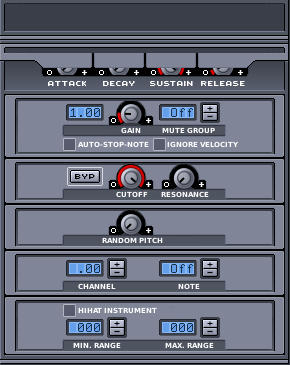
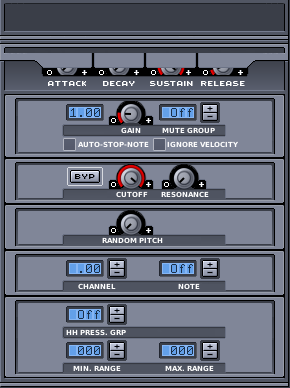
HiHat pressure group https://github.com/hydrogen-music/hydrogen/issues/246

diff --git a/src/gui/src/InstrumentEditor/InstrumentEditor.cpp b/src/gui/src/InstrumentEditor/InstrumentEditor.cpp
@@ -253,14 +253,32 @@ InstrumentEditor::InstrumentEditor( QWidget* pParent )
 	//////////////////////////
 	// HiHat setup
 
-	m_pIsHihat = new QCheckBox ( trUtf8( "" ), m_pInstrumentProp );
-	m_pIsHihat->move( 63, 304 );
-	m_pIsHihat->setToolTip( trUtf8( "Set the instrument as part of a hihat set." ) );
-	connect( m_pIsHihat, SIGNAL( toggled( bool ) ), this, SLOT( pIsHihatCheckBoxClicked( bool ) ) );
+	m_pHihatGroupLCD = new LCDDisplay( m_pInstrumentProp, LCDDigit::SMALL_BLUE, 4 );
+	m_pHihatGroupLCD->move( 67, 307 );
+
+	m_pAddHihatGroupBtn = new Button(
+								 m_pInstrumentProp,
+								 "/lcd/LCDSpinBox_up_on.png",
+								 "/lcd/LCDSpinBox_up_off.png",
+								 "/lcd/LCDSpinBox_up_over.png",
+								 QSize( 16, 8 )
+								 );
+	m_pAddHihatGroupBtn->move( 109, 306 );
+	connect( m_pAddHihatGroupBtn, SIGNAL( clicked(Button*) ), this, SLOT( hihatGroupClicked(Button*) ) );
+
+	m_pDelHihatGroupBtn = new Button(
+								 m_pInstrumentProp,
+								 "/lcd/LCDSpinBox_down_on.png",
+								 "/lcd/LCDSpinBox_down_off.png",
+								 "/lcd/LCDSpinBox_down_over.png",
+								 QSize(16,8)
+								 );
+	m_pDelHihatGroupBtn->move( 109, 315 );
+	connect( m_pDelHihatGroupBtn, SIGNAL( clicked(Button*) ), this, SLOT( hihatGroupClicked(Button*) ) );
 
 
 	m_pHihatMinRangeLCD = new LCDDisplay( m_pInstrumentProp, LCDDigit::SMALL_BLUE, 4 );
-	m_pHihatMinRangeLCD->move( 67, 320 );
+	m_pHihatMinRangeLCD->move( 67, 343 );
 
 	m_pAddHihatMinRangeBtn = new Button(
 								 m_pInstrumentProp,
@@ -269,7 +287,7 @@ InstrumentEditor::InstrumentEditor( QWidget* pParent )
 								 "/lcd/LCDSpinBox_up_over.png",
 								 QSize( 16, 8 )
 								 );
-	m_pAddHihatMinRangeBtn->move( 109, 319 );
+	m_pAddHihatMinRangeBtn->move( 109, 342 );
 	connect( m_pAddHihatMinRangeBtn, SIGNAL( clicked(Button*) ), this, SLOT( hihatMinRangeBtnClicked(Button*) ) );
 
 	m_pDelHihatMinRangeBtn = new Button(
@@ -279,12 +297,12 @@ InstrumentEditor::InstrumentEditor( QWidget* pParent )
 								 "/lcd/LCDSpinBox_down_over.png",
 								 QSize(16,8)
 								 );
-	m_pDelHihatMinRangeBtn->move( 109, 328 );
+	m_pDelHihatMinRangeBtn->move( 109, 351 );
 	connect( m_pDelHihatMinRangeBtn, SIGNAL( clicked(Button*) ), this, SLOT( hihatMinRangeBtnClicked(Button*) ) );
 
 
 	m_pHihatMaxRangeLCD = new LCDDisplay( m_pInstrumentProp, LCDDigit::SMALL_BLUE, 4 );
-	m_pHihatMaxRangeLCD->move( 160, 320 );
+	m_pHihatMaxRangeLCD->move( 160, 343 );
 
 	m_pAddHihatMaxRangeBtn = new Button(
 								 m_pInstrumentProp,
@@ -293,7 +311,7 @@ InstrumentEditor::InstrumentEditor( QWidget* pParent )
 								 "/lcd/LCDSpinBox_up_over.png",
 								 QSize( 16, 8 )
 								 );
-	m_pAddHihatMaxRangeBtn->move( 202, 319 );
+	m_pAddHihatMaxRangeBtn->move( 202, 342 );
 	connect( m_pAddHihatMaxRangeBtn, SIGNAL( clicked(Button*) ), this, SLOT( hihatMaxRangeBtnClicked(Button*) ) );
 
 	m_pDelHihatMaxRangeBtn = new Button(
@@ -303,7 +321,7 @@ InstrumentEditor::InstrumentEditor( QWidget* pParent )
 								 "/lcd/LCDSpinBox_down_over.png",
 								 QSize(16,8)
 								 );
-	m_pDelHihatMaxRangeBtn->move( 202, 328 );
+	m_pDelHihatMaxRangeBtn->move( 202, 351 );
 	connect( m_pDelHihatMaxRangeBtn, SIGNAL( clicked(Button*) ), this, SLOT( hihatMaxRangeBtnClicked(Button*) ) );
 
 	//
@@ -555,7 +573,11 @@ void InstrumentEditor::selectedInstrumentChangedEvent()
 		m_pMidiOutChannelLCD->setText( sMidiOutChannel );
 
 		// hihat
-		m_pIsHihat->setChecked( m_pInstrument->is_hihat() );
+		QString sHHGroup = QString("%1").arg( m_pInstrument->get_hihat_grp() );
+		if (m_pInstrument->get_hihat_grp() == -1 ) {
+			sHHGroup = "Off";
+		}
+		m_pHihatGroupLCD->setText( sHHGroup );
 		QString sHiHatMinRange = QString("%1").arg( m_pInstrument->get_lower_cc() );
 		m_pHihatMinRangeLCD->setText( sHiHatMinRange );
 		QString sHiHatMaxRange = QString("%1").arg( m_pInstrument->get_higher_cc() );
@@ -1341,11 +1363,15 @@ void InstrumentEditor::pSampleSelectionChanged( QString selected )
 	selectedInstrumentChangedEvent();	// force an update
 }
 
-void InstrumentEditor::pIsHihatCheckBoxClicked( bool on )
+void InstrumentEditor::hihatGroupClicked(Button *pRef)
 {
 	assert( m_pInstrument );
 
-	m_pInstrument->set_hihat( on );
+	if ( pRef == m_pAddHihatGroupBtn && m_pInstrument->get_hihat_grp() < 32 )
+		m_pInstrument->set_hihat_grp( m_pInstrument->get_hihat_grp() + 1 );
+	else if ( pRef == m_pDelHihatGroupBtn && m_pInstrument->get_hihat_grp() > -1 )
+		m_pInstrument->set_hihat_grp( m_pInstrument->get_hihat_grp() - 1 );
+
 	selectedInstrumentChangedEvent();	// force an update
 }
 

diff --git a/src/core/src/basics/instrument.cpp b/src/core/src/basics/instrument.cpp
@@ -66,7 +66,7 @@ Instrument::Instrument( const int id, const QString& name, ADSR* adsr )
 	, __muted( false )
 	, __mute_group( -1 )
 	, __queued( 0 )
-	, __hihat( false )
+	, __hihat_grp( -1 )
 	, __lower_cc( 0 )
 	, __higher_cc( 127 )
 	, __components( NULL )
@@ -101,7 +101,7 @@ Instrument::Instrument( Instrument* other )
 	, __muted( other->is_muted() )
 	, __mute_group( other->get_mute_group() )
 	, __queued( other->is_queued() )
-	, __hihat( other->is_hihat() )
+	, __hihat_grp( other->get_hihat_grp() )
 	, __lower_cc( other->get_lower_cc() )
 	, __higher_cc( other->get_higher_cc() )
 	, __components( NULL )
@@ -193,7 +193,7 @@ void Instrument::load_from( Drumkit* drumkit, Instrument* instrument, bool is_li
 	this->set_midi_out_note( instrument->get_midi_out_note() );
 	this->set_stop_notes( instrument->is_stop_notes() );
 	this->set_sample_selection_alg( instrument->sample_selection_alg() );
-	this->set_hihat( instrument->is_hihat() );
+	this->set_hihat_grp( instrument->get_hihat_grp() );
 	this->set_lower_cc( instrument->get_lower_cc() );
 	this->set_higher_cc( instrument->get_higher_cc() );
 	this->set_ignore_velocity ( instrument->get_ignore_velocity() );
@@ -247,7 +247,7 @@ Instrument* Instrument::load_from( XMLNode* node, const QString& dk_path, const 
 	else if ( p_read_sample_select_algo.compare("RANDOM") == 0 )
 			instrument->set_sample_selection_alg( RANDOM );
 
-	instrument->set_hihat( node->read_bool( "isHihat", false, true ) );
+	instrument->set_hihat_grp( node->read_int( "isHihat", -1, true ) );
 	instrument->set_lower_cc( node->read_int( "lower_cc", 0, true ) );
 	instrument->set_higher_cc( node->read_int( "higher_cc", 127, true ) );
 
@@ -319,7 +319,7 @@ void Instrument::save_to( XMLNode* node )
 			instrument_node.write_string( "sampleSelectionAlgo", "ROUND_ROBIN" );
 			break;
 	}
-	instrument_node.write_bool( "isHihat", __hihat );
+	instrument_node.write_int( "isHihat", __hihat_grp );
 	instrument_node.write_int( "lower_cc", __lower_cc );
 	instrument_node.write_int( "higher_cc", __higher_cc );
 	for ( int i=0; i<MAX_FX; i++ ) {

diff --git a/src/core/include/hydrogen/basics/instrument.h b/src/core/include/hydrogen/basics/instrument.h
@@ -229,8 +229,8 @@ class Instrument : public H2Core::Object
 		void set_sample_selection_alg( SampleSelectionAlgo selected_algo);
 		SampleSelectionAlgo sample_selection_alg() const;
 
-		void set_hihat( bool ishihat );
-		bool is_hihat() const;
+		void set_hihat_grp( int hihat_grp );
+		int get_hihat_grp() const;
 
 		void set_lower_cc( int message );
 		int get_lower_cc() const;
@@ -276,7 +276,7 @@ class Instrument : public H2Core::Object
 		int __mute_group;		                ///< mute group of the instrument
 		int __queued;                           ///< count the number of notes queued within Sampler::__playing_notes_queue or std::priority_queue m_songNoteQueue
 		float __fx_level[MAX_FX];	            ///< Ladspa FX level array
-		bool __hihat;                           ///< the instrument is a hihat
+		int __hihat_grp;                        ///< the instrument is part of a hihat grp
 		int __lower_cc;                         ///< lower cc level
 		int __higher_cc;                        ///< higher cc level
         std::vector<InstrumentComponent*>* __components;  ///< InstrumentLayer array
@@ -529,14 +529,14 @@ inline Instrument::SampleSelectionAlgo Instrument::sample_selection_alg() const
 	return __sample_selection_alg;
 }
 
-inline void Instrument::set_hihat( bool ishihat )
+inline void Instrument::set_hihat_grp( int hihat_grp )
 {
-    __hihat = ishihat;
+	__hihat_grp = hihat_grp;
 }
 
-inline bool Instrument::is_hihat() const
+inline int Instrument::get_hihat_grp() const
 {
-    return __hihat;
+	return __hihat_grp;
 }
 
 inline void Instrument::set_lower_cc( int message )

diff --git a/src/core/src/basics/song.cpp b/src/core/src/basics/song.cpp
@@ -516,7 +516,7 @@ Song* SongReader::readSong( const QString& filename )
 				continue;
 			}
 
-			bool bIsHiHat = LocalFileMng::readXmlBool( instrumentNode, "isHihat", false, true );
+			int iIsHiHat = LocalFileMng::readXmlInt( instrumentNode, "isHihat", -1, true );
 			int iLowerCC = LocalFileMng::readXmlInt( instrumentNode, "lower_cc", 0, true );
 			int iHigherCC = LocalFileMng::readXmlInt( instrumentNode, "higher_cc", 127, true );
 
@@ -539,7 +539,7 @@ Song* SongReader::readSong( const QString& filename )
 			pInstrument->set_gain( fGain );
 			pInstrument->set_mute_group( nMuteGroup );
 			pInstrument->set_stop_notes( isStopNote );
-			pInstrument->set_hihat( bIsHiHat );
+			pInstrument->set_hihat_grp( iIsHiHat );
 			pInstrument->set_lower_cc( iLowerCC );
 			pInstrument->set_higher_cc( iHigherCC );
 			if ( p_read_sample_select_algo.compare("VELOCITY") == 0 )

diff --git a/src/core/src/local_file_mgr.cpp b/src/core/src/local_file_mgr.cpp
@@ -1331,6 +1331,10 @@ int SongWriter::writeSong( Song *song, const QString& filename )
 		LocalFileMng::writeXmlString( instrumentNode, "midiOutChannel", QString("%1").arg( instr->get_midi_out_channel() ) );
 		LocalFileMng::writeXmlString( instrumentNode, "midiOutNote", QString("%1").arg( instr->get_midi_out_note() ) );
 
+		LocalFileMng::writeXmlString( instrumentNode, "isHihat", QString("%1").arg( instr->get_hihat_grp() ) );
+		LocalFileMng::writeXmlString( instrumentNode, "lower_cc", QString("%1").arg( instr->get_lower_cc() ) );
+		LocalFileMng::writeXmlString( instrumentNode, "higher_cc", QString("%1").arg( instr->get_higher_cc() ) );
+
         for (std::vector<InstrumentComponent*>::iterator it = instr->get_components()->begin() ; it != instr->get_components()->end(); ++it) {
             InstrumentComponent* pComponent = *it;
 

diff --git a/src/core/src/IO/midi_input.cpp b/src/core/src/IO/midi_input.cpp
@@ -269,14 +269,14 @@ void MidiInput::handleNoteOnMessage( const MidiMessage& msg )
 		hihat openess is outside the instrument selected
 		*/
 		if ( instr != NULL &&
-			 instr->is_hihat() &&
+			 instr->get_hihat_grp() >= 0 &&
 			 ( __hihat_cc_openess < instr->get_lower_cc() || __hihat_cc_openess > instr->get_higher_cc() ) )
 		{
 			for(int i=0 ; i<=instrList->size() ; i++)
 			{
 				Instrument *instr_contestant = instrList->get( i );
 				if( instr_contestant != NULL &&
-						instr_contestant->is_hihat() &&
+						instr->get_hihat_grp() == instr_contestant->get_hihat_grp() &&
 						__hihat_cc_openess >= instr_contestant->get_lower_cc() &&
 						__hihat_cc_openess <= instr_contestant->get_higher_cc() )
 				{

diff --git a/src/gui/src/InstrumentEditor/InstrumentEditor.h b/src/gui/src/InstrumentEditor/InstrumentEditor.h
@@ -81,7 +81,7 @@ class InstrumentEditor : public QWidget, public H2Core::Object, public EventList
 		void midiOutChannelBtnClicked(Button *pRef);
 		void midiOutNoteBtnClicked(Button *pRef);
 
-		void pIsHihatCheckBoxClicked( bool on);
+		void hihatGroupClicked(Button *pRef);
 		void hihatMinRangeBtnClicked(Button *pRef);
 		void hihatMaxRangeBtnClicked(Button *pRef);
 
@@ -135,7 +135,9 @@ class InstrumentEditor : public QWidget, public H2Core::Object, public EventList
 
 		// Instrument hihat
 
-		QCheckBox *m_pIsHihat;
+		LCDDisplay *m_pHihatGroupLCD;
+		Button *m_pAddHihatGroupBtn;
+		Button *m_pDelHihatGroupBtn;
 
 		LCDDisplay *m_pHihatMinRangeLCD;
 		Button *m_pAddHihatMinRangeBtn;

diff --git a/src/core/src/helpers/legacy.cpp b/src/core/src/helpers/legacy.cpp
@@ -93,7 +93,7 @@ Drumkit* Legacy::load_drumkit( const QString& dk_path ) {
 					instrument->set_sample_selection_alg( Instrument::ROUND_ROBIN );
 				else if ( p_read_sample_select_algo.compare("RANDOM") == 0 )
 					instrument->set_sample_selection_alg( Instrument::RANDOM );
-				instrument->set_hihat( instrument_node.read_bool( "isHihat", false, true ) );
+				instrument->set_hihat_grp( instrument_node.read_int( "isHihat", -1, true ) );
                 instrument->set_lower_cc( instrument_node.read_int( "lower_cc", 0, true ) );
                 instrument->set_higher_cc( instrument_node.read_int( "higher_cc", 127, true ) );
 				for ( int i=0; i<MAX_FX; i++ ) {
